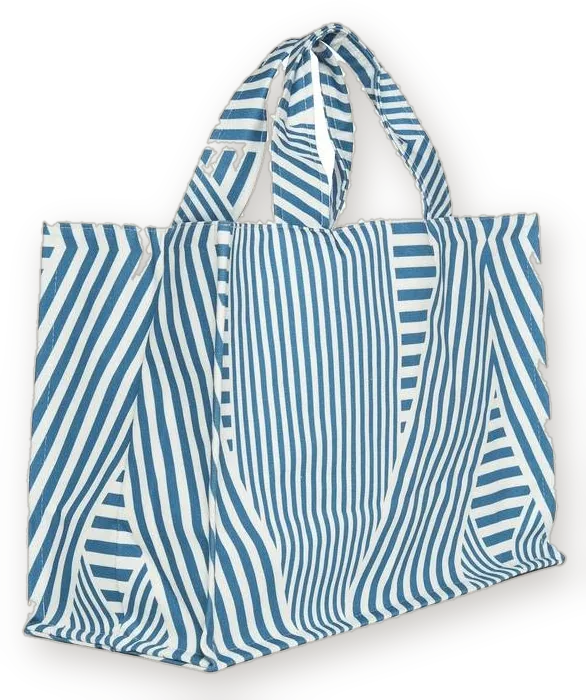
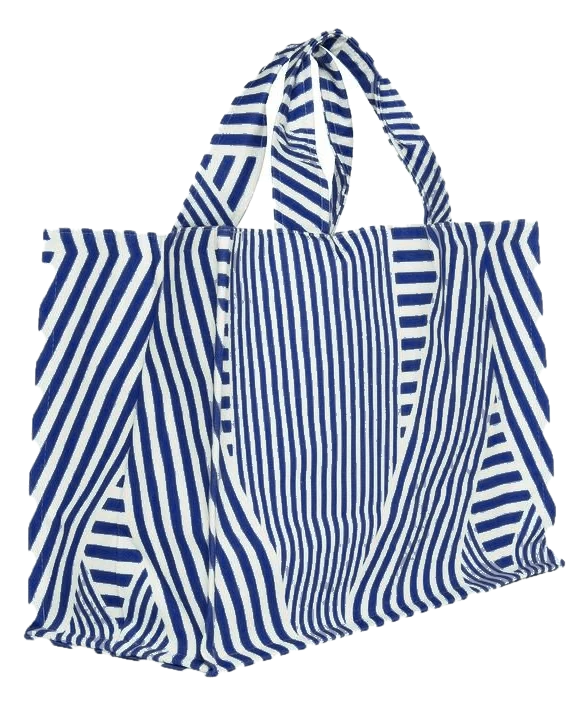
Lookbook + price list: Standing Canvas Tote recoloured to a deeper royal blue, cleaner cutout. Requested by Lala.
Claude-Session: https://claude.ai/code/session_01JY2qApSMh3EdeyD2yLzbwL

diff --git a/lookbook-price-list/index.html b/lookbook-price-list/index.html
@@ -412,7 +412,7 @@ video::-webkit-media-controls,video::-webkit-media-controls-start-playback-butto
     <div class="textcard tote-mesh"><h3>Cotton Mesh Bag</h3><p>In the photo · light cotton mesh, 1-colour logo print</p><div class="price"><div class="tiers"><div><span>MOQ–499 pcs</span><b>€8.90</b></div><div><span>500–999 pcs</span><b>€7.90</b></div><div><span>1,000+ pcs</span><b>€6.90</b></div></div><small>per pc · excl. VAT · logo incl. · MOQ 200</small></div></div>
     <div class="grid g2 totes">
       <div class="card"><img class="cut" src="/uploads/lookbook/tote_terry.webp" alt="Blue terry tote bag" loading="lazy"><h3>Terry Tote</h3><p>40 × 38 × 11 cm, also small</p><div class="price"><div class="tiers"><div><span>MOQ–499 pcs</span><b>€22.50 – €25.50</b></div><div><span>500–999 pcs</span><b>€19.90 – €22.50</b></div><div><span>1,000+ pcs</span><b>€16.50 – €18.50</b></div></div><small>per pc · excl. VAT · excl. logo · MOQ 60</small></div></div>
-      <div class="card"><img class="cut" src="/uploads/lookbook/tote_canvas.webp" alt="Blue and white striped standing canvas tote" loading="lazy"><h3>Standing Canvas Tote</h3><p>49 × 34 × 23 cm</p><div class="price"><div class="tiers"><div><span>MOQ–499 pcs</span><b>€52.50</b></div><div><span>500–999 pcs</span><b>€47.90</b></div><div><span>1,000+ pcs</span><b>€42.50</b></div></div><small>per pc · excl. VAT · excl. logo · MOQ 200</small></div></div>
+      <div class="card"><img class="cut" src="/uploads/lookbook/tote_canvas.webp?v=2" alt="Royal blue and white striped standing canvas tote" loading="lazy"><h3>Standing Canvas Tote</h3><p>49 × 34 × 23 cm</p><div class="price"><div class="tiers"><div><span>MOQ–499 pcs</span><b>€52.50</b></div><div><span>500–999 pcs</span><b>€47.90</b></div><div><span>1,000+ pcs</span><b>€42.50</b></div></div><small>per pc · excl. VAT · excl. logo · MOQ 200</small></div></div>
     </div>
   </div>
 </section>

diff --git a/lookbook/index.html b/lookbook/index.html
@@ -399,7 +399,7 @@ video::-webkit-media-controls,video::-webkit-media-controls-start-playback-butto
     <div class="textcard tote-mesh"><h3>Cotton Mesh Bag</h3><p>In the photo · light cotton mesh, 1-colour logo print</p></div>
     <div class="grid g2 totes">
       <div class="card"><img class="cut" src="/uploads/lookbook/tote_terry.webp" alt="Blue terry tote bag" loading="lazy"><h3>Terry Tote</h3><p>40 × 38 × 11 cm, also small</p></div>
-      <div class="card"><img class="cut" src="/uploads/lookbook/tote_canvas.webp" alt="Blue and white striped standing canvas tote" loading="lazy"><h3>Standing Canvas Tote</h3><p>49 × 34 × 23 cm</p></div>
+      <div class="card"><img class="cut" src="/uploads/lookbook/tote_canvas.webp?v=2" alt="Royal blue and white striped standing canvas tote" loading="lazy"><h3>Standing Canvas Tote</h3><p>49 × 34 × 23 cm</p></div>
     </div>
   </div>
 </section>
